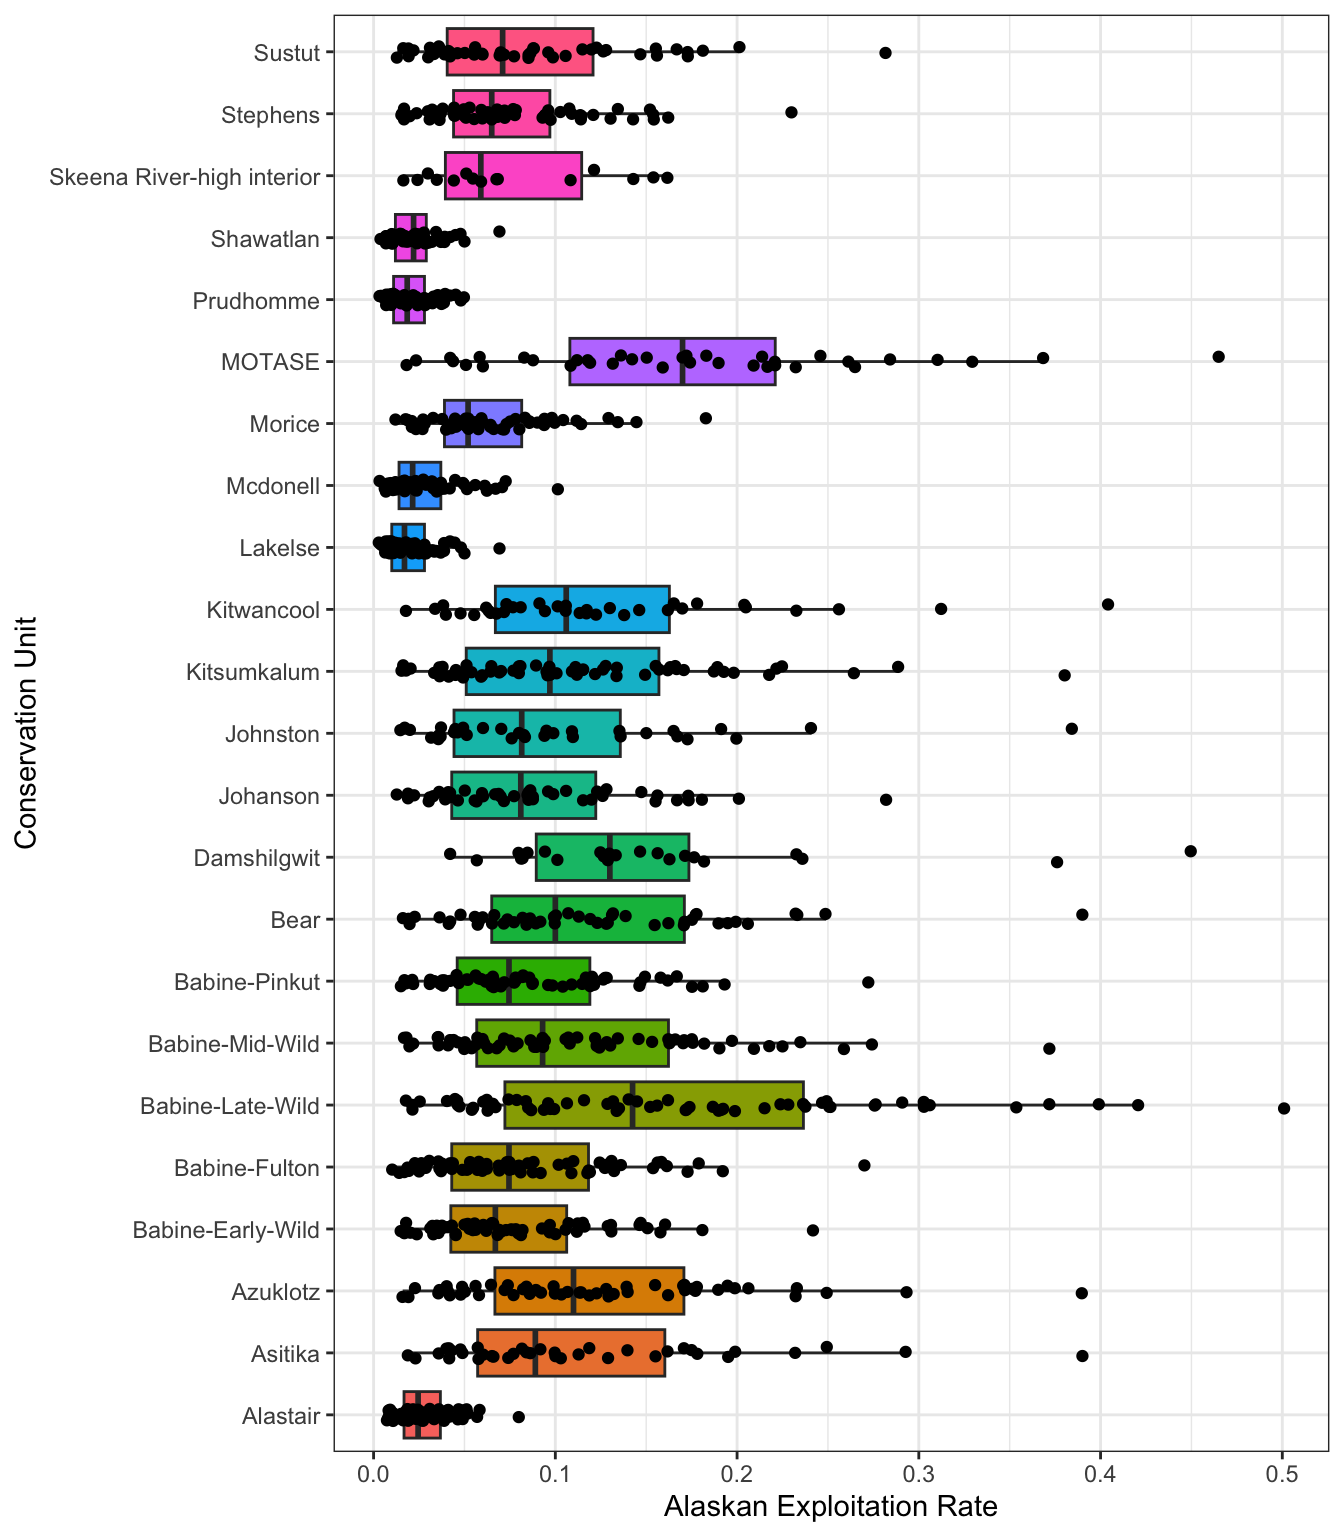
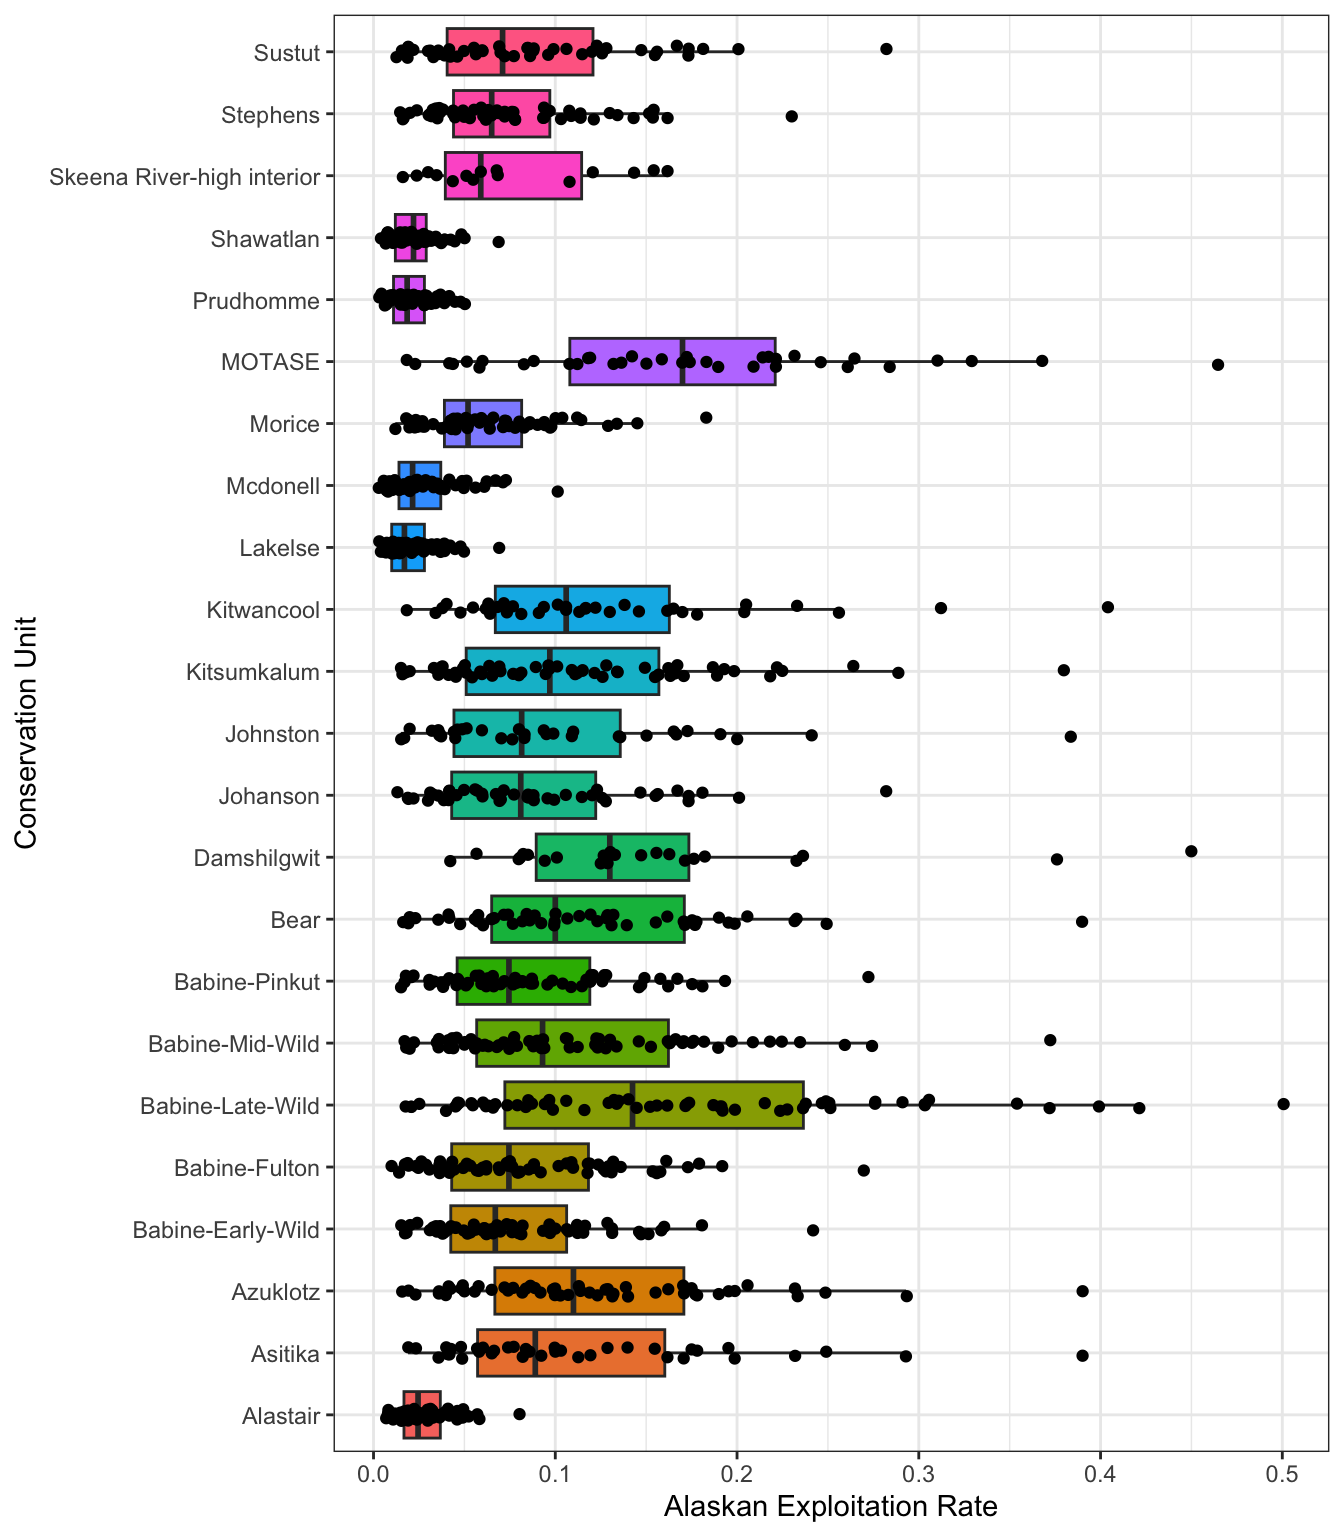
add text with figure cross referencing to SEAK online report

diff --git a/docs/SEAK-summary.html b/docs/SEAK-summary.html
@@ -113,13 +113,7 @@ ul.task-list li input[type="checkbox"] {
    
   <ul>
   <li><a href="#summary" id="toc-summary" class="nav-link active" data-scroll-target="#summary">Summary</a></li>
-  <li><a href="#southeast-alaska-catch-of-bc-salmon" id="toc-southeast-alaska-catch-of-bc-salmon" class="nav-link" data-scroll-target="#southeast-alaska-catch-of-bc-salmon">Southeast Alaska Catch of BC Salmon</a>
-  <ul class="collapse">
-  <li><a href="#fishing-areas-in-southeast-alaska" id="toc-fishing-areas-in-southeast-alaska" class="nav-link" data-scroll-target="#fishing-areas-in-southeast-alaska">Fishing areas in Southeast Alaska</a></li>
-  <li><a href="#total-salmon-harvest-in-southeast-alaska-fisheries-by-year-and-species" id="toc-total-salmon-harvest-in-southeast-alaska-fisheries-by-year-and-species" class="nav-link" data-scroll-target="#total-salmon-harvest-in-southeast-alaska-fisheries-by-year-and-species">Total salmon harvest in Southeast Alaska fisheries by year and species</a></li>
-  <li><a href="#total-salmon-harvest-and-total-value-in-southeast-alaska-fisheries-by-year-and-species" id="toc-total-salmon-harvest-and-total-value-in-southeast-alaska-fisheries-by-year-and-species" class="nav-link" data-scroll-target="#total-salmon-harvest-and-total-value-in-southeast-alaska-fisheries-by-year-and-species">Total salmon harvest and total value in Southeast Alaska fisheries by year and species</a></li>
-  <li><a href="#southeast-alaska-harvest-by-statistical-week-broken-down-by-district-species-and-gear-type" id="toc-southeast-alaska-harvest-by-statistical-week-broken-down-by-district-species-and-gear-type" class="nav-link" data-scroll-target="#southeast-alaska-harvest-by-statistical-week-broken-down-by-district-species-and-gear-type">2023 Southeast Alaska harvest by statistical week, broken down by district, species, and gear type</a></li>
-  </ul></li>
+  <li><a href="#southeast-alaska-catch-of-bc-salmon" id="toc-southeast-alaska-catch-of-bc-salmon" class="nav-link" data-scroll-target="#southeast-alaska-catch-of-bc-salmon">Southeast Alaska Catch of BC Salmon</a></li>
   <li><a href="#sockeye" id="toc-sockeye" class="nav-link" data-scroll-target="#sockeye">Sockeye</a>
   <ul class="collapse">
   <li><a href="#skeena" id="toc-skeena" class="nav-link" data-scroll-target="#skeena">Skeena</a></li>
@@ -131,6 +125,7 @@ ul.task-list li input[type="checkbox"] {
   <li><a href="#pink" id="toc-pink" class="nav-link" data-scroll-target="#pink">Pink</a></li>
   <li><a href="#transboundary" id="toc-transboundary" class="nav-link" data-scroll-target="#transboundary">Transboundary</a></li>
   <li><a href="#steelhead" id="toc-steelhead" class="nav-link" data-scroll-target="#steelhead">Steelhead</a></li>
+  <li><a href="#appendix-1-pacific-salmon-commission-chinook-technical-committee-mortality-distribution-tables" id="toc-appendix-1-pacific-salmon-commission-chinook-technical-committee-mortality-distribution-tables" class="nav-link" data-scroll-target="#appendix-1-pacific-salmon-commission-chinook-technical-committee-mortality-distribution-tables">Appendix 1: Pacific Salmon Commission Chinook Technical Committee Mortality Distribution Tables</a></li>
   </ul>
 </nav>
     </div>
@@ -161,8 +156,7 @@ ul.task-list li input[type="checkbox"] {
 </section>
 <section id="southeast-alaska-catch-of-bc-salmon" class="level1">
 <h1>Southeast Alaska Catch of BC Salmon</h1>
-<section id="fishing-areas-in-southeast-alaska" class="level3">
-<h3 class="anchored" data-anchor-id="fishing-areas-in-southeast-alaska">Fishing areas in Southeast Alaska</h3>
+<p><a href="#fig-seak-map" class="quarto-xref">Figure&nbsp;1</a> shows Southeast Alaskan fisheries management areas. Note the location of the District 104 (Noyes and Dall Island) and District 101 (Tree Point) areas.</p>
 <div class="cell">
 <div class="cell-output-display">
 <div id="fig-seak-map" class="quarto-float quarto-figure quarto-figure-center anchored">
@@ -177,9 +171,7 @@ Figure&nbsp;1: Map of Southeast Alaska Fishing Areas by District.
 </div>
 </div>
 </div>
-</section>
-<section id="total-salmon-harvest-in-southeast-alaska-fisheries-by-year-and-species" class="level3">
-<h3 class="anchored" data-anchor-id="total-salmon-harvest-in-southeast-alaska-fisheries-by-year-and-species">Total salmon harvest in Southeast Alaska fisheries by year and species</h3>
+<p>Total catch of all species in SEAK commercial fisheries has ranged from ~70 million to ~260 million between 1985 and 2024 (<a href="#fig-harvest-species" class="quarto-xref">Figure&nbsp;2</a>). Pink salmon dominate catch numbers. Chum and sockeye are the second most caught, followed by coho and finally Chinook salmon.</p>
 <div class="cell">
 <div class="cell-output-display">
 <div id="fig-harvest-species" class="quarto-float quarto-figure quarto-figure-center anchored">
@@ -194,9 +186,7 @@ Figure&nbsp;2: Southeast Alaska, US (SEAK) total harvest in millions of fish by 
 </div>
 </div>
 </div>
-</section>
-<section id="total-salmon-harvest-and-total-value-in-southeast-alaska-fisheries-by-year-and-species" class="level3">
-<h3 class="anchored" data-anchor-id="total-salmon-harvest-and-total-value-in-southeast-alaska-fisheries-by-year-and-species">Total salmon harvest and total value in Southeast Alaska fisheries by year and species</h3>
+<p><a href="#fig-seak-value" class="quarto-xref">Figure&nbsp;3</a> shows the harvest and harvest value of all salmon species in SEAK from 1979-2023. Chum salmon catch increased dramatically in the early 1990s. Catches of Chinook and coho salmon are trending down in recent years. Pink salmon catch is highly variable, with a discernable odd year/even year pattern (odd years being higher). Sockeye catches peaked in the mid-90s and have trended down since. Value is influenced by both the number of fish caught and the price per pound in any given year. Chum salmon now contribute the most value in SEAK fisheries.</p>
 <div class="cell">
 <div class="cell-output-display">
 <div id="fig-seak-value" class="quarto-float quarto-figure quarto-figure-center anchored">
@@ -211,9 +201,9 @@ Figure&nbsp;3: Southeast Alaska, US (SEAK) harvest (millions of fish) and value 
 </div>
 </div>
 </div>
-</section>
-<section id="southeast-alaska-harvest-by-statistical-week-broken-down-by-district-species-and-gear-type" class="level3">
-<h3 class="anchored" data-anchor-id="southeast-alaska-harvest-by-statistical-week-broken-down-by-district-species-and-gear-type">2023 Southeast Alaska harvest by statistical week, broken down by district, species, and gear type</h3>
+<p><a href="#fig-catch-statweek" class="quarto-xref">Figure&nbsp;4</a> shows the catch of Chinook, pink and sockeye salmon from Southeast Alaska districts 101, 102, 103, 104, and 106 in 2023, for seines and gillnets.</p>
+<p>Note that the pattern of harvest is similar to that in other years, with sockeye harvest peaking in the D104 fishery slightly before the peak in pink harvest. In 2023, pink harvest was highest in D104 and D102, with the vast majority of sockeye harvest from D104.</p>
+<p>Chinook was non-retention in the purse seine fisheries through almost all of 2023, however in one day of opening ~ 6,000 Chinook were kept in D104.</p>
 <div class="cell">
 <div class="cell-output-display">
 <div id="fig-catch-statweek" class="quarto-float quarto-figure quarto-figure-center anchored">
@@ -229,9 +219,9 @@ Figure&nbsp;4: Harvest by species, gear type, district, and statistical week.
 </div>
 </div>
 </section>
-</section>
 <section id="sockeye" class="level1">
 <h1>Sockeye</h1>
+<p>Total sockeye catches (all gears) in Districts 101 and 106 have declined since the 90s, total catch in Districts 102, 103, and 105 have remained low and District 104 total catch peaked in the 90s and declined to an average of ~ 225,000 since, with catches ranging from near 0 to almost 800,000 (<a href="#fig-sx-catch-bydistrict" class="quarto-xref">Figure&nbsp;5</a>).</p>
 <div class="cell">
 <div class="cell-output-display">
 <div id="fig-sx-catch-bydistrict" class="quarto-float quarto-figure quarto-figure-center anchored">
@@ -240,12 +230,14 @@ Figure&nbsp;4: Harvest by species, gear type, district, and statistical week.
 <img src="SEAK-summary_files/figure-html/fig-sx-catch-bydistrict-1.png" class="img-fluid figure-img" width="672">
 </div>
 <figcaption class="quarto-float-caption-bottom quarto-float-caption quarto-float-fig" id="fig-sx-catch-bydistrict-caption-0ceaefa1-69ba-4598-a22c-09a6ac19f8ca">
-Figure&nbsp;5: Total catch of sockeye salmon by year for SSEAK Districts 101-106 (1985-2021). Smoothed lines are derived by LOESS with standard errors shown in grey.
+Figure&nbsp;5: Total catch of sockeye salmon by year for SSEAK Districts 101-106 (1985-2023). Smoothed lines are derived by LOESS with standard errors shown in grey.
 </figcaption>
 </figure>
 </div>
 </div>
 </div>
+<p>The following set of figures describe the commercial marine catch of Skeena and Nass sockeye in South Southeast Alaska (SSEAK) and BC, with specific information on the proportion of catch between regions and trends over time. We also provide a more detailed summary of information on specific fisheries in SSEAK (e.g.&nbsp;with focus on District 104 and the Noyes and Dall Island fishing areas). Data source is provided in each figure.</p>
+<p>US and Canadian commercial catch have declined since the 1990s for both Skeena (<a href="#fig-sk-marine-catch" class="quarto-xref">Figure&nbsp;6</a>) and Nass (<a href="#fig-nass-marine-catch" class="quarto-xref">Figure&nbsp;7</a>) sockeye.</p>
 <div class="cell">
 <div class="cell-output-display">
 <div id="fig-sk-marine-catch" class="quarto-float quarto-figure quarto-figure-center anchored">
@@ -274,6 +266,7 @@ Figure&nbsp;7: Canadian and US Nass sockeye harvest (1980-2023).
 </div>
 </div>
 </div>
+<p>Chapter 2 of the Pacific Salmon Treaty contains a clause that limits harvest of sockeye prior to Statistical Week 31 (end of July) in the District 104 seine fishery. The proportion of catch prior to Week 31 out of the total District 104 sockeye catch is shown for Skeena (<a href="#fig-pre-sk" class="quarto-xref">Figure&nbsp;8</a>) and Nass (<a href="#fig-pre-nass" class="quarto-xref">Figure&nbsp;9</a>) sockeye. Although variable, the proportion of sockeye harvested before Week 31 has declined for Nass sockeye, and was very low in 2019 and 2020 for Skeena sockeye. This could be an indication of later timed runs to the Skeena and Nass.</p>
 <div class="cell">
 <div class="cell-output-display">
 <div id="fig-pre-sk" class="quarto-float quarto-figure quarto-figure-center anchored">
@@ -302,6 +295,9 @@ Figure&nbsp;9: Proportion of total D104 catch harvested before Week 31 for Nass 
 </div>
 </div>
 </div>
+<p>SEAK sub-area exploitation rate distributions over all years on Skeena and Nass sockeye are shown in <a href="#fig-ers-subarea" class="quarto-xref">Figure&nbsp;10</a>.</p>
+<p>Notably, the Noyes and Dall (District 104) fisheries have the most significant impact on Skeena sockeye, followed by the Tree Point (District 101) and Lower Clarence (southern District 102) fisheries.</p>
+<p>For Nass sockeye, the Tree Point fishery has the most significant impact, followed by the Noyes, Dall, and Lower Clarence fisheries. This highlights the different migration routes of Skeena and Nass fisheries, where Nass sockeye are much more susceptible to harvest in District 101.</p>
 <div class="cell">
 <div class="cell-output-display">
 <div id="fig-ers-subarea" class="quarto-float quarto-figure quarto-figure-center anchored">
@@ -316,6 +312,7 @@ Figure&nbsp;10: SEAK exploitation rate on Skeena and Nass sockeye by SEAK fishin
 </div>
 </div>
 </div>
+<p><a href="#fig-ers-area5" class="quarto-xref">Figure&nbsp;11</a> shows the Canadian and Alaskan exploitation rates of Area 5 sockeye salmon. Estimated Canadian ERs averaged around 15% in the 60s-80s, peaked in the 90s at around 30% and have since declined dramatically to between 0 and 8% in the last 10 years. Alaskan ERs have remained relatively constant between 0 and 5%.</p>
 <div class="cell">
 <div class="cell-output-display">
 <div id="fig-ers-area5" class="quarto-float quarto-figure quarto-figure-center anchored">
@@ -330,6 +327,7 @@ Figure&nbsp;11: Canadian and SEAK exploitation rates on Area 5 sockeye, 1960 to 
 </div>
 </div>
 </div>
+<p>The PSC Northern Fund final reports provide stock composition estimates by regional reporting groups based on genetic analyses of fisheries samples. We extracted stock composition data for District 101 commercial gillnet fishery and the District 104 commercial purse seine fisheries from the three most recent years available (Guthrie et al.&nbsp;2018, 2019a, 2019b). Weekly stock compositions are shown in <a href="#fig-stockcomp" class="quarto-xref">Figure&nbsp;12</a>. While Skeena and Nass (and Alaska) sockeye dominated catches in these 3 years in both fisheries, there was a small portion of catch attributed to the South Migrating reporting group separate from Fraser River sockeye. It is important to note that the reporting groups were condensed in fishery year 2016, so that those reports previous to 2016 showed a greater resolution of south migrating stocks and showed Central Coast BC and Queen Charlotte Island reporting groups (Guthrie et al.&nbsp;2010, 2011, 2012, 2013, 2014, 2015a, 2015b, 2016, 2017). While these reporting groups were only present in fisheries in small proportions, sample size and power to detect low abundance populations may have been an issue. In summary, BC sockeye from areas other than the Fraser, Skeena and Nass Rivers are likely present in these fisheries in most years.</p>
 <div class="cell">
 <div class="cell-output-display">
 <div id="fig-stockcomp" class="quarto-float quarto-figure quarto-figure-center anchored">
@@ -344,6 +342,8 @@ Figure&nbsp;12: Weekly stock composition of sockeye in the District 101 commerci
 </div>
 </div>
 </div>
+<p>Information on Alaskan interceptions of Fraser sockeye by Canadian, Washington and Alaskan fisheries from 2000-2022 were provided by the Pacific Salmon Commission (PSC 2021a) and DFO (Les Jantz and Jamie Scroggie, personal communication, 2021). Additional information at the Conservation Unit/Stock level was provided in Latham and Samarasin (2018), which is a draft report summarizing the results of genetic analysis using Single Nucleotide Polymorphisms (SNPs) from sockeye samples collected during the 2018 fishing season from Alaskan District 104 seine fisheries.</p>
+<p>Alaskan catch of Fraser sockeye averaged ~ 60,000 from 2000 to 2020 (<a href="#fig-catch-byregion" class="quarto-xref">Figure&nbsp;13</a>, top panel). Canadian catch averaged ~ 2.2 million and Washington catch averaged ~ 320,000 over the same period. However, due to the cyclic nature of Fraser sockeye catch, average catch may not be an appropriate indicator of each fishery’s relative impact in a given year. Alaskan exploitation is typically estimated to be very low (&lt; 5%), with only 2 years 10% or higher (<a href="#fig-catch-byregion" class="quarto-xref">Figure&nbsp;13</a>, middle panel). The percent of total Fraser sockeye catch attributed to Alaskan fisheries is typically low, however there are a number of years where the proportion of Alaskan catch has been near to or much greater than the Canadian proportion (<a href="#fig-catch-byregion" class="quarto-xref">Figure&nbsp;13</a>, bottom panel). This can likely be attributed to abundance-based management in PSC Fraser Panel waters, where in low abundance years Washington and BC fisheries targeting Fraser sockeye would be severely curtailed, whereas Alaskan fisheries are independent of Fraser sockeye abundance. In 2018, Alaskan catch of Fraser sockeye was estimated to be ~ 53,000 (PSC 2021). Of this, Shuswap Lake sockeye dominated the catch (57%), followed by Quesnel (22%) and Chilko (13%) sockeye (Latham and Samarasin 2018).</p>
 <div class="cell">
 <div class="cell-output-display">
 <div id="fig-catch-byregion" class="quarto-float quarto-figure quarto-figure-center anchored">
@@ -358,6 +358,7 @@ Figure&nbsp;13: Canadian (green), Alaskan (red) and Washington (green) catch (to
 </div>
 </div>
 </div>
+<p><a href="#fig-fr-stockcomps" class="quarto-xref">Figure&nbsp;14</a> shows the stock composition of Fraser River sockeye catch by Conservation Unit between 2000 and 2021.</p>
 <div class="cell">
 <div class="cell-output-display">
 <div id="fig-fr-stockcomps" class="quarto-float quarto-figure quarto-figure-center anchored">
@@ -439,6 +440,7 @@ Figure&nbsp;18: Distribution of Alaskan exploitation rates on each Nass sockeye 
 </div>
 </div>
 </div>
+<p>ADFG “Blue Sheet” harvest data for SEAK commercial fisheries was requested and provided from ADFG for 1979-2024. <a href="#fig-sk-bs-fishery" class="quarto-xref">Figure&nbsp;19</a> shows the harvest of sockeye salmon by SEAK fishery for 1979-2024. Sockeye salmon are primarily caught in the Bristol Bay, Alaska Peninsula/Aleutian Islands, Cook Inlet, and Kodiak fisheries, as well as Prince William Sound, Southeast/Yakutat, and Chignik fisheries.</p>
 <div class="cell">
 <div class="cell-output-display">
 <div id="fig-sk-bs-fishery" class="quarto-float quarto-figure quarto-figure-center anchored">
@@ -457,6 +459,7 @@ Figure&nbsp;19: Southeast Alaska, US (SEAK) harvest of Sockeye by fishery betwee
 </section>
 <section id="chinook" class="level1">
 <h1>Chinook</h1>
+<p>Chinook salmon catch in SEAK is historically dominated by power troll traditional (60%) and spring (11%) fisheries, with smaller contributions (&lt; 25,000 median catch) from other fisheries (e.g., southern purse seine, hatchery cost recovery, etc.) (<a href="#fig-cn-boxplot" class="quarto-xref">Figure&nbsp;20</a>). Median catch from 1980-2021 in the southern purse seine fisheries is just under 10,000, but in some years can be much higher (20-30,000). The total 2021 catch in Southern Purse Seine fisheries was 6,836 (ADFG 2021c), lower than the median catch at the ~ 35th percentile of all years.</p>
 <div class="cell">
 <div class="cell-output-display">
 <div id="fig-cn-boxplot" class="quarto-float quarto-figure quarto-figure-center anchored">
@@ -471,6 +474,7 @@ Figure&nbsp;20: Distribution of total Chinook salmon commercial catch in SEAK Bl
 </div>
 </div>
 </div>
+<p>Total catches (all gears) in District 104 is highly variable but has declined substantially since around 2000 (<a href="#fig-cn-catch-bydistrict" class="quarto-xref">Figure&nbsp;21</a>). The last few years have seen relatively low catches at less than or around 20,000. District 101 catch has remained relatively constant since increasing in the 90s. Catch in District 104 was higher than in the last 4 years in 2021.</p>
 <div class="cell">
 <div class="cell-output-display">
 <div id="fig-cn-catch-bydistrict" class="quarto-float quarto-figure quarto-figure-center anchored">
@@ -485,6 +489,7 @@ Figure&nbsp;21: Total catch of Chinook salmon by year for SSEAK Districts 101-10
 </div>
 </div>
 </div>
+<p>Canadian and SEAK exploitation rates for north and central coast BC Chinook Areas with data are shown in <a href="#fig-cn-er-statarea" class="quarto-xref">Figure&nbsp;22</a>. Area 9S refers to Area 9 Summer Chinook, and Area 9W refers to Wannock Chinook. Canadian exploitation rates have been variable, but in general have remained relatively constant (Areas 3, 6, 9W, and 9S), increased (Area 8) or decreased (Area 10). There is little recent data for Area 10, and Area 8 ERs are likely driven by catch of enhanced Atnarko River Chinook. SEAK ERs have increased (9W and 9S), averaged about the same (Areas 3, 4, and 6), or decreased (Areas 8 and 10) over time. Area 4 ERs were historically the highest, averaging around ~40-50%, dropped in the late 90s and in recent years have averaged between 10 and 20%. SEAK ERs range from near 0 to close to 40% in some Areas (Area 9W and 9S in recent years).</p>
 <div class="cell">
 <div class="cell-output-display">
 <div id="fig-cn-er-statarea" class="quarto-float quarto-figure quarto-figure-center anchored">
@@ -499,6 +504,7 @@ Figure&nbsp;22: SEAK (red) and Canadian (blue) exploitation rates by year for no
 </div>
 </div>
 </div>
+<p><a href="#fig-cn-er-cu" class="quarto-xref">Figure&nbsp;23</a> shows SEAK ERs over time by CU for Skeena, Central Coast, and Nass CUs. There is some variation in trends between CUs, however following Area specific SEAK ERs, there are substantial increases in SEAK ERs in recent years in Rivers Inlet and Wannock Chinook CUs. In Skeena CUs, SEAK ER has declined slightly in Lower Skeena and Middle Skeena (large lakes and mainstem tributaries) CUs, while it has remained relatively steady in the Kalum, Ecstall, and Upper Bulkley CUs.</p>
 <div class="cell">
 <div class="cell-output-display">
 <div id="fig-cn-er-cu" class="quarto-float quarto-figure quarto-figure-center anchored">
@@ -513,6 +519,7 @@ Figure&nbsp;23: SEAK exploitation rates for Chinook salmon from north and centra
 </div>
 </div>
 </div>
+<p><a href="#fig-cn-seak-ctc" class="quarto-xref">Figure&nbsp;24</a> shows total SEAK ERs by year for Canadian CTC Chinook indicator stocks (excluding Transboundary systems). Total SEAK ERs have trended lower in recent years for most stocks, with the exception of Puntledge River, which increased slightly in the 2000s and has remained relatively stable since. Note that the Phillips and Middle Shuswap stocks have short time series (&lt; 10 years).</p>
 <div class="cell">
 <div class="cell-output-display">
 <div id="fig-cn-seak-ctc" class="quarto-float quarto-figure quarto-figure-center anchored">
@@ -527,6 +534,7 @@ Figure&nbsp;24: Total SEAK exploitation rates for Canadian (excluding Transbound
 </div>
 </div>
 </div>
+<p><a href="#fig-cn-bs-fishery" class="quarto-xref">Figure&nbsp;25</a> shows the harvest of Chinook salmon by “Blue Sheet” fishery for 1979-2024. Chinook salmon are primarily caught in the Southeast/Yakutat, Bristol Bay, Yukon, and Kuskokwim fisheries although catch declined significantly in the Yukon and Kuskokwim fisheries since 2010. Chinook are also caught in the Alaska Peninsula/Aleutian Islands, Kodiak, Prince William Sound, Cook Inlet, and Chignik fisheries.</p>
 <div class="cell">
 <div class="cell-output-display">
 <div id="fig-cn-bs-fishery" class="quarto-float quarto-figure quarto-figure-center anchored">
@@ -544,6 +552,8 @@ Figure&nbsp;25: Southeast Alaska, US (SEAK) harvest of Chinook by fishery betwee
 </section>
 <section id="coho" class="level1">
 <h1>Coho</h1>
+<p>Canadian and SEAK exploitation rates for north and central coast BC coho are shown by Statistical Unit in <a href="#fig-co-ers" class="quarto-xref">Figure&nbsp;26</a>. In Areas 5-10, Canadian exploitation rates have dropped dramatically in the late 90s following decreased marine survival and the coho crisis which severely curtailed most fisheries. For Areas 2E, 2W, and 3, Canadian ERs dropped in the late 90s, but appear to be close to historical levels in some recent years (~20%). Area 4 ERs were historically the highest, averaging around ~40-50%, dropped in the late 90s and in recent years have averaged between 10 and 20%.</p>
+<p>SEAK ERs are estimated to be highest for Area 3 coho production (averaging around 30-40% with some years over 50%), slightly lower in Area 4 and Area 6 (same ER as Area 4), and much lower for the rest of the areas. SEAK ERs on Haida Gwaii (Areas 2E and 2W) are very low, averaging around 2-4%.</p>
 <div class="cell">
 <div class="cell-output-display">
 <div id="fig-co-ers" class="quarto-float quarto-figure quarto-figure-center anchored">
@@ -558,6 +568,7 @@ Figure&nbsp;26: SEAK (red) and Canadian (blue) exploitation rates by year for no
 </div>
 </div>
 </div>
+<p><a href="#fig-co-seak-er-cu" class="quarto-xref">Figure&nbsp;27</a> shows SEAK ERs over time by CU for north and central coast CUs. There is some variation in trends between CUs, but CUs show stable, slightly increasing, or slightly decreasing SEAK ERs in recent years. SEAK ERs for north and central coast CUs follow the same patterns as their respective indicator estimates, therefore the proportion of catch attributed to SEAK fisheries is high for Skeena and Nass CUs, and moderate for central coast CUs. This means that these estimates suggest that SEAK catch has been higher in recent years than Canadian catch, and some times by 3-fold (Nass).</p>
 <div class="cell">
 <div class="cell-output-display">
 <div id="fig-co-seak-er-cu" class="quarto-float quarto-figure quarto-figure-center anchored">
@@ -572,6 +583,7 @@ Figure&nbsp;27: SEAK exploitation rates for coho salmon from north and central c
 </div>
 </div>
 </div>
+<p>Information on Canadian and SEAK catch specifically of Zolzap Creek coho for 1992-2005 and 2010- 2018 was provided by LGL (2021b) and in a draft report (Noble et al.&nbsp;2020). This is similar to the Area 3 data as the Zolzap system is the indicator system for the Area 3 (Nass). This was the only system level data we were able to procure before the writing of this report. SEAK ERs range from over 60% to less than 20%, but average around 40% over the time series, much higher than Canadian ERs (<a href="#fig-co-zz-ers" class="quarto-xref">Figure&nbsp;28</a>). The proportion of total ER attributed to SEAK ranges from ~ 60% in 2018 to 100% in 1997, but averages around 75%.</p>
 <div class="cell">
 <div class="cell-output-display">
 <div id="fig-co-zz-ers" class="quarto-float quarto-figure quarto-figure-center anchored">
@@ -586,6 +598,7 @@ Figure&nbsp;28: CDN (blue) and SEAK (red) exploitation rates (above) and the per
 </div>
 </div>
 </div>
+<p>Weitkamp and Neely (2011) provide an excellent analysis of ocean migration patterns from CWT recoveries of hatchery and wild coho from Alaska to California. <a href="#fig-coho-recovery" class="quarto-xref">Figure&nbsp;29</a> (Figure 2 from Weitkamp and Neely 2011), provides an overview of the recovery patterns for tagged coho. Key findings of this analysis are that north BC coast CWT coho are recovered in approximately equal numbers in north and south SEAK fisheries and north BC coast and Haida Gwaii fisheries. There are no central coast hatcheries. Haida Gwaii origin fish are mostly recovered in north BC and Haida Gwaii, and there are very few recoveries of WCVI, ECVI, south mainland, lower or upper Fraser coho in SEAK. This provides support for both the high SEAK ERs in north coast coho, and the low SEAK ERs for southern stocks. Weitkamp and Neely (2011) also determine that CWT’d tagged wild coho follow relatively similar patterns of marine distribution as their specific regional hatchery indicators, suggesting that SEAK ERs would be similar for wild coho as hatchery indicators.</p>
 <div class="cell">
 <div class="cell-output-display">
 <div id="fig-coho-recovery" class="quarto-float quarto-figure quarto-figure-center anchored">
@@ -600,6 +613,7 @@ Figure&nbsp;29: Recovery patterns of coded-wire tagged coho salmon (Oncorhynchus
 </div>
 </div>
 </div>
+<p><a href="#fig-co-bs-fishery" class="quarto-xref">Figure&nbsp;30</a> shows the harvest of coho salmon by “Blue Sheet” fishery for 1979-2024. Coho salmon are primarily caught in the Southeast/Yakutat, Alaska Peninsula/Aleutian Islands, Prince William Sound, Kodiak, and Cook Inlet fisheries, as well as in smaller numbers in the Bristol Bay, Koskokwim, Chignik, Norton Sound/Port Clarence, and Yukon fisheries.</p>
 <div class="cell">
 <div class="cell-output-display">
 <div id="fig-co-bs-fishery" class="quarto-float quarto-figure quarto-figure-center anchored">
@@ -617,6 +631,7 @@ Figure&nbsp;30: Southeast Alaska, US (SEAK) harvest of Coho by fishery between 1
 </section>
 <section id="chum" class="level1">
 <h1>Chum</h1>
+<p>Total chum salmon catch in SEAK between 1980 and 2022 ramped up in the early 90s following investments in large scale enhancement in Alaska, has averaged nearly 10 million since (<a href="#fig-chum-seakharv" class="quarto-xref">Figure&nbsp;31</a>). Since 2010, catches have averaged just under ~ 10 million chum per year. Total SEAK catch of chum in 2022 was over 15 million chum, a substantial jump from recent averages.</p>
 <div class="cell">
 <div class="cell-output-display">
 <div id="fig-chum-seakharv" class="quarto-float quarto-figure quarto-figure-center anchored">
@@ -631,6 +646,7 @@ Figure&nbsp;31: Total SEAK harvest (millions of fish) of chum salmon from 1980-2
 </div>
 </div>
 </div>
+<p>Total catches (all gears) in District 101 is highly variable and since 2000 has ranged from ~ 100,000 to nearly 2 million (<a href="#fig-chum-seak-district" class="quarto-xref">Figure&nbsp;32</a>). The last few years have seen relatively low catches. The District 104 fishery has remained relatively constant and low since the 2000s.</p>
 <div class="cell">
 <div class="cell-output-display">
 <div id="fig-chum-seak-district" class="quarto-float quarto-figure quarto-figure-center anchored">
@@ -645,6 +661,7 @@ Figure&nbsp;32: Total catch of chum salmon by year for SSEAK Districts 101-106 (
 </div>
 </div>
 </div>
+<p>SSEAK and Canadian exploitation rates for north and central coast BC chum salmon are shown in <a href="#fig-chum-ers-sa" class="quarto-xref">Figure&nbsp;33</a>. Exploitation rates from SSEAK are only estimated for Areas 3, 4 and 5. Canadian exploitation rates are highly variable and have recently declined to much lower levels than in the historical time period in most Areas (except Area 9 and 10 where recent estimates are not available), and especially in Areas 3, 4 and 5. Following pink salmon exploitation rates, estimated SSEAK exploitation rates on chum salmon have declined slightly since the 80s, but in the last 20 years have averaged around 12% in Areas 3,4 and 5.</p>
 <div class="cell">
 <div class="cell-output-display">
 <div id="fig-chum-ers-sa" class="quarto-float quarto-figure quarto-figure-center anchored">
@@ -659,6 +676,7 @@ Figure&nbsp;33: SEAK (red) and Canadian (blue) exploitation rates by year for no
 </div>
 </div>
 </div>
+<p><a href="#fig-chum-seak-er-cu" class="quarto-xref">Figure&nbsp;34</a> shows SEAK and Canadian exploitation rates for north and central coast BC chum salmon by Conservation Unit. Across all CUs, Canadian ER has declined drastically since the 1990s while SEAK ER has also declined slightly.</p>
 <div class="cell">
 <div class="cell-output-display">
 <div id="fig-chum-seak-er-cu" class="quarto-float quarto-figure quarto-figure-center anchored">
@@ -673,6 +691,7 @@ Figure&nbsp;34: Canadian and SEAK exploitation rates for chum salmon from north 
 </div>
 </div>
 </div>
+<p><a href="#fig-cm-bs-fishery" class="quarto-xref">Figure&nbsp;35</a> shows the harvest of chum salmon by “Blue Sheet” fishery for 1985-2024. Chum salmon are primarily caught in the Southeast/Yakutat, Prince William Sound, Alaska Peninsula/Aleutian Islands, and Bristol Bay fisheries, as well as the Kodiak, Yukon, Cook Inlet, Kuskokwim, Chignik, and Arctic/Kotzebue fisheries.</p>
 <div class="cell">
 <div class="cell-output-display">
 <div id="fig-cm-bs-fishery" class="quarto-float quarto-figure quarto-figure-center anchored">
@@ -690,6 +709,7 @@ Figure&nbsp;35: Southeast Alaska, US (SEAK) harvest of Chum by fishery between 1
 </section>
 <section id="pink" class="level1">
 <h1>Pink</h1>
+<p>Total pink salmon catch in SEAK between 1979 and 2021 peaked in the mid-90s, averaging ~ 37 million (<a href="#fig-pink-seak-harv" class="quarto-xref">Figure&nbsp;36</a>). Since 2010, catches have averaged ~ 32.5 million.</p>
 <div class="cell">
 <div class="cell-output-display">
 <div id="fig-pink-seak-harv" class="quarto-float quarto-figure quarto-figure-center anchored">
@@ -704,6 +724,7 @@ Figure&nbsp;36: SEAK catch (millions of fish) of pink salmon from 1979-2021. Sou
 </div>
 </div>
 </div>
+<p>Total catches (all gears) in District 104 in most years has declined since the 90s to an average catch of around 5 million per year in the 2000s (<a href="#fig-pink-seak-harv-dist" class="quarto-xref">Figure&nbsp;37</a>). The other Districts have remained variable with no major trends over time.</p>
 <div class="cell">
 <div class="cell-output-display">
 <div id="fig-pink-seak-harv-dist" class="quarto-float quarto-figure quarto-figure-center anchored">
@@ -718,6 +739,7 @@ Figure&nbsp;37: Total catch of pink salmon by year for SSEAK Districts 101-106 (
 </div>
 </div>
 </div>
+<p>SSEAK and Canadian exploitation rates for north and central coast BC even year pink salmon are shown in <a href="#fig-pink-ers-sa" class="quarto-xref">Figure&nbsp;38</a>. Exploitation rates from SSEAK are only estimated for Areas 3, 4 and 5. Canadian exploitation rates have declined to much lower levels than in historical time period in all Areas (except Area 9 and 10 where recent estimates are not available). SSEAK exploitation rates have declined slightly since the 80s, but in the last 20 years have averaged around 12% in Areas 3,4 and 5.</p>
 <div class="cell">
 <div class="cell-output-display">
 <div id="fig-pink-ers-sa" class="quarto-float quarto-figure quarto-figure-center anchored">
@@ -732,6 +754,7 @@ Figure&nbsp;38: SSEAK (red) and Canadian (blue) exploitation rates by year for n
 </div>
 </div>
 </div>
+<p>SSEAK and Canadian exploitation rates for north and central coast BC odd year pink salmon are shown in <a href="#fig-pinkodd-ers-sa" class="quarto-xref">Figure&nbsp;39</a>. Exploitation rates from SSEAK are only estimated for Areas 3, 4 and 5. Similar to even year pink salmon, Canadian exploitation rates have declined to much lower levels than in historical time period in all Areas (except Area 9 and 10 where recent estimates are not available). SSEAK exploitation rates have declined slightly since the 80s, but in the last 20 years have averaged around 10% in Areas 3,4 and 5.</p>
 <div class="cell">
 <div class="cell-output-display">
 <div id="fig-pinkodd-ers-sa" class="quarto-float quarto-figure quarto-figure-center anchored">
@@ -746,6 +769,7 @@ Figure&nbsp;39: SSEAK (red) and Canadian (blue) exploitation rates by year for n
 </div>
 </div>
 </div>
+<p>SSEAK exploitation rates are shown for north and central coast CUs by year for even and odd year pink salmon in <a href="#fig-pink-seak-er-cu" class="quarto-xref">Figure&nbsp;40</a>. Similar to the Area specific exploitation rates these are estimated from, SSEAK exploitation rates decline starting around 1990 in most CUs. Recent year CUs range from ~ 10-15% for most CUs, and ~ 2.5% for the even-year Hecate Lowlands and odd-year Hecate Strait-Lowlands CUs.</p>
 <div class="cell">
 <div class="cell-output-display">
 <div id="fig-pink-seak-er-cu" class="quarto-float quarto-figure quarto-figure-center anchored">
@@ -760,6 +784,7 @@ Figure&nbsp;40: SSEAK exploitation rates for even (red points) and odd (blue poi
 </div>
 </div>
 </div>
+<p><a href="#fig-pk-bs-fishery" class="quarto-xref">Figure&nbsp;41</a> shows the harvest of pink salmon by “Blue Sheet” fishery for 1979-2024. Pink salmon are primarily caught in the Southeast/Yakutat, Prince William Sound, Kodiak, and Alaska Peninsula/Aleutian Islands fisheries, as well as Cook Inlet and Chignik fisheries, and a very small number in Bristol Bay.</p>
 <div class="cell">
 <div class="cell-output-display">
 <div id="fig-pk-bs-fishery" class="quarto-float quarto-figure quarto-figure-center anchored">
@@ -1004,7 +1029,10 @@ Figure&nbsp;57: Canadian and US total exploitation rate for Taku and Stikine Chi
 </section>
 <section id="steelhead" class="level1">
 <h1>Steelhead</h1>
-<p>To be added. ## Appendix 1: Pacific Salmon Commission Chinook Technical Committee Mortality Distribution Tables</p>
+<p>To be added.</p>
+</section>
+<section id="appendix-1-pacific-salmon-commission-chinook-technical-committee-mortality-distribution-tables" class="level1">
+<h1>Appendix 1: Pacific Salmon Commission Chinook Technical Committee Mortality Distribution Tables</h1>
 
 
 </section>